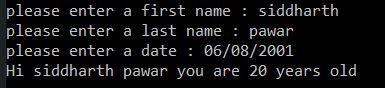
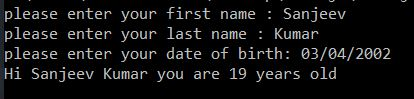
question 4 solved with random name

diff --git a/index.js b/index.js
@@ -10,11 +10,11 @@ function form() {
 
    
     
-    rl.question("please enter a first name : " , firstName => {
+    rl.question("please enter your first name : " , firstName => {
 
-        rl.question("please enter a last name : " , lastName => {
+        rl.question("please enter your last name : " , lastName => {
 
-            rl.question("please enter a date : " , dob => {
+            rl.question("please enter your date of birth: " , dob => {
 
                 dob = dob.split('/');
                 let birthDay = parseInt(dob[0]);
